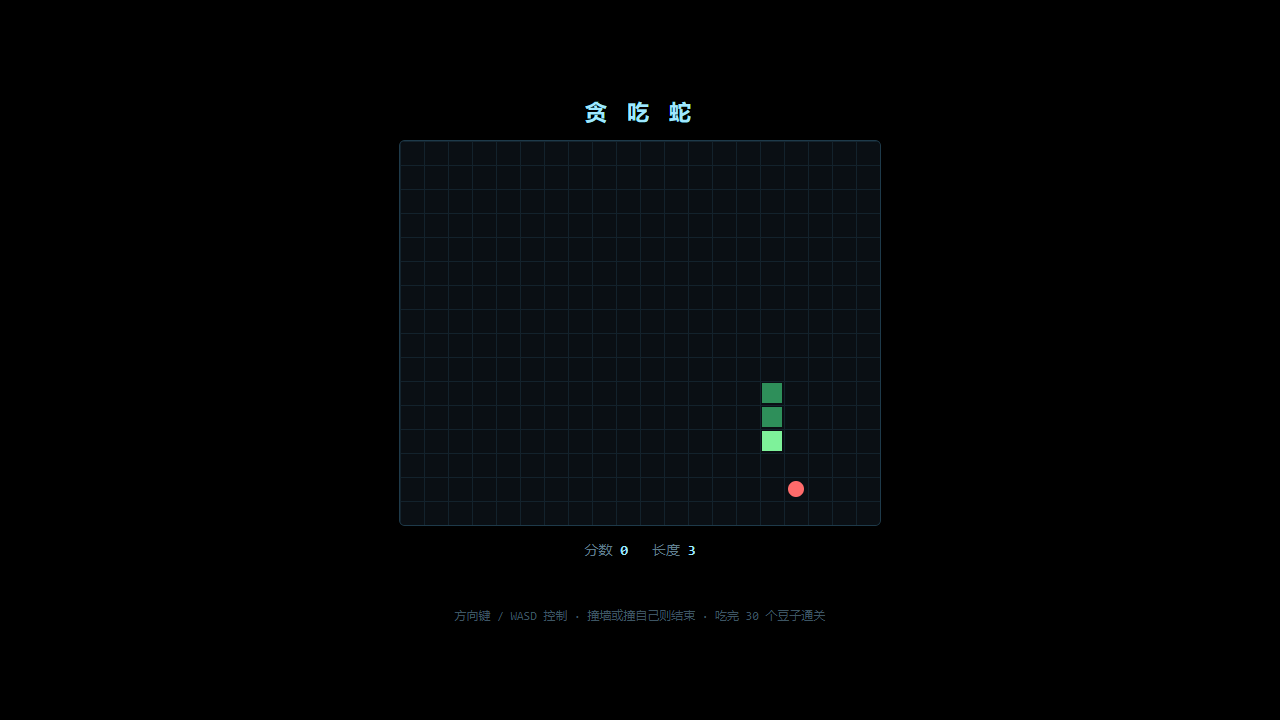
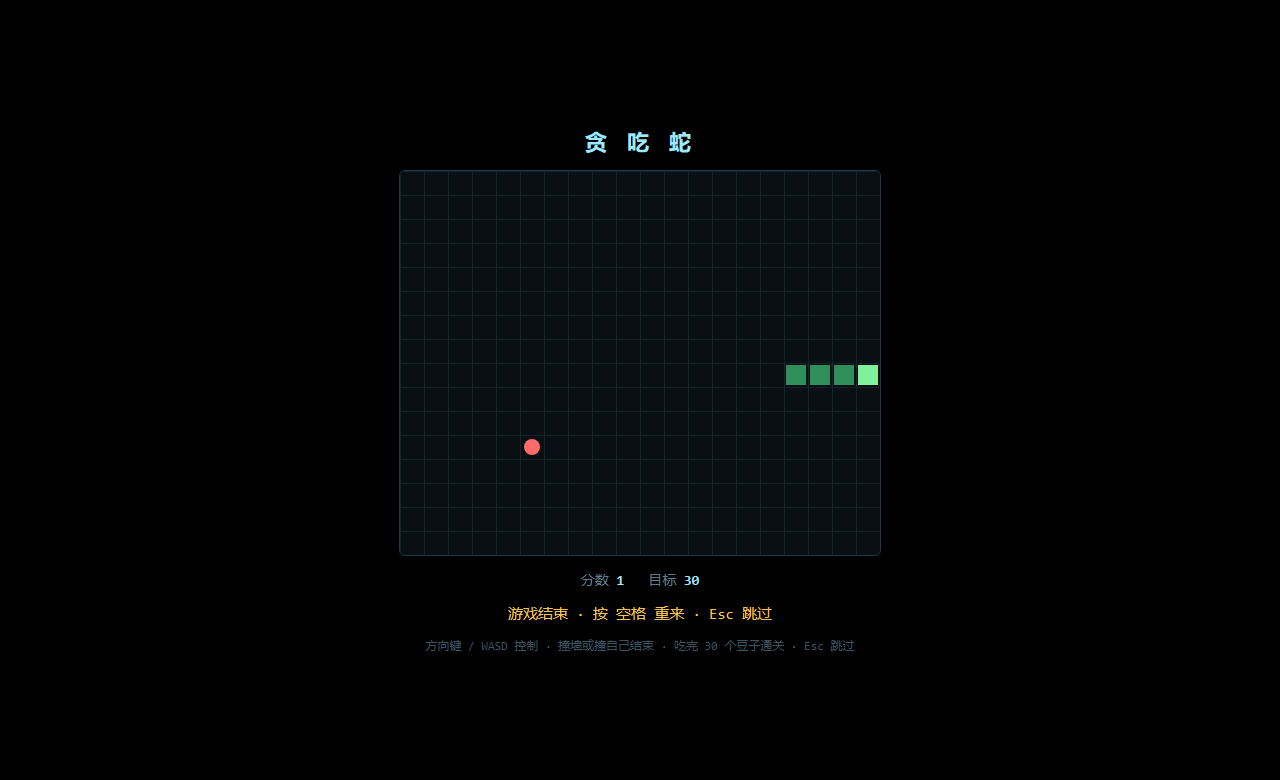
Add screenshots of every game and fix the 3D scene's module paths
Six captures, one per built-in game, taken from the running pages in Chromium: snake, 2048, breakout, memory, typing and the Wandering Earth scene. Each shot gets its own browser, because a shared session leaves the 3D scene with a dead WebGL context and a blank capture.

ignite.html now addresses its modules and stylesheet by absolute plugin path. With relative paths the browser resolved them against /boot-animation/game/ whenever the URL had no trailing slash, which served the entry HTML in place of app.js and stopped the scene from booting.

tools/screenshots.mjs reproduces the whole set; it splits request paths exactly like the plugin's route, which the earlier ad-hoc script got wrong.

diff --git a/vendor/earth-migration/ignite.html b/vendor/earth-migration/ignite.html
@@ -6,7 +6,7 @@
 <title>The Earth Migration Project — Humanity's Last Journey</title>
 <meta name="description" content="A cinematic, interactive Three.js experience: planetary engines, a space elevator and a deep-space civilisation pushing Earth out of the Solar System.">
 <meta name="theme-color" content="#02040a">
-<link rel="stylesheet" href="css/app.css">
+<link rel="stylesheet" href="/boot-animation/game/wandering-earth/css/app.css">
 </head>
 <body class="cinematic">
 <canvas id="scene" tabindex="0" aria-label="Interactive 3D scene of Earth with planetary engines, a space elevator and orbital stations"></canvas>
@@ -159,14 +159,14 @@
   </nav>
 </div>
 
-<script src="js/boot.js"></script>
+<script src="/boot-animation/game/wandering-earth/js/boot.js"></script>
 <script type="importmap">
 { "imports": {
-  "three": "./vendor/three/build/three.module.js",
-  "three/addons/": "./vendor/three/examples/jsm/"
+  "three": "/boot-animation/game/wandering-earth/vendor/three/build/three.module.js",
+  "three/addons/": "/boot-animation/game/wandering-earth/vendor/three/examples/jsm/"
 } }
 </script>
-<script type="module" src="js/app.js"></script>
+<script type="module" src="/boot-animation/game/wandering-earth/js/app.js"></script>
 
 <!-- ==== 开机动画：点火层（在此之上叠加玩法，原场景不动）==== -->
 <style>

diff --git a/README.md b/README.md
@@ -48,15 +48,25 @@
 
 ![实际播放画面，右下角显示「按 Esc 跳过」](docs/boot-scene.png)
 
-内置贪吃蛇小游戏：
+### 六款内置小游戏
 
-![贪吃蛇：通关即进入](docs/snake.png)
+**行星发动机 3D**（流浪地球）—— 真实地球贴图、赤道发动机群、太空电梯、银河背景：
 
-流浪地球主题的「行星发动机」：三路参数都压在绿区，撑满 3 秒点火成功。
+![行星发动机 3D：地球、发动机群与三路点火仪表](docs/wandering-earth.png)
 
-![行星发动机：转向/姿态/推力三路仪表，右下角可直接跳过](docs/wandering-earth.png)
+| 贪吃蛇 | 2048 |
+| --- | --- |
+| ![贪吃蛇：吃到豆子后蛇身变长](docs/snake.png) | ![2048：滑动合并数字](docs/2048.png) |
 
-> 截图都是从真实播放里截的，不是效果图：用 Chromium 媒体栈经插件的路由解码后截帧生成（`tools/stills.mjs` 与 `tools/browser-check.mjs --shot=`）。
+| 打砖块 | 记忆翻牌 |
+| --- | --- |
+| ![打砖块：挡板与彩色砖块](docs/breakout.png) | ![记忆翻牌：翻开的牌面](docs/memory.png) |
+
+**打字冲刺** —— 照抄单词回车提交：
+
+![打字冲刺：目标词与已输入的单词](docs/typing.png)
+
+> 截图都是从真实运行里截的，不是效果图：经插件的路由服务页面，用 Chromium 采集 WebGL 与 DOM 画面（`tools/browser-check.mjs --shot=`、`tools/stills.mjs`）。
 
 ## 怎么用
 
